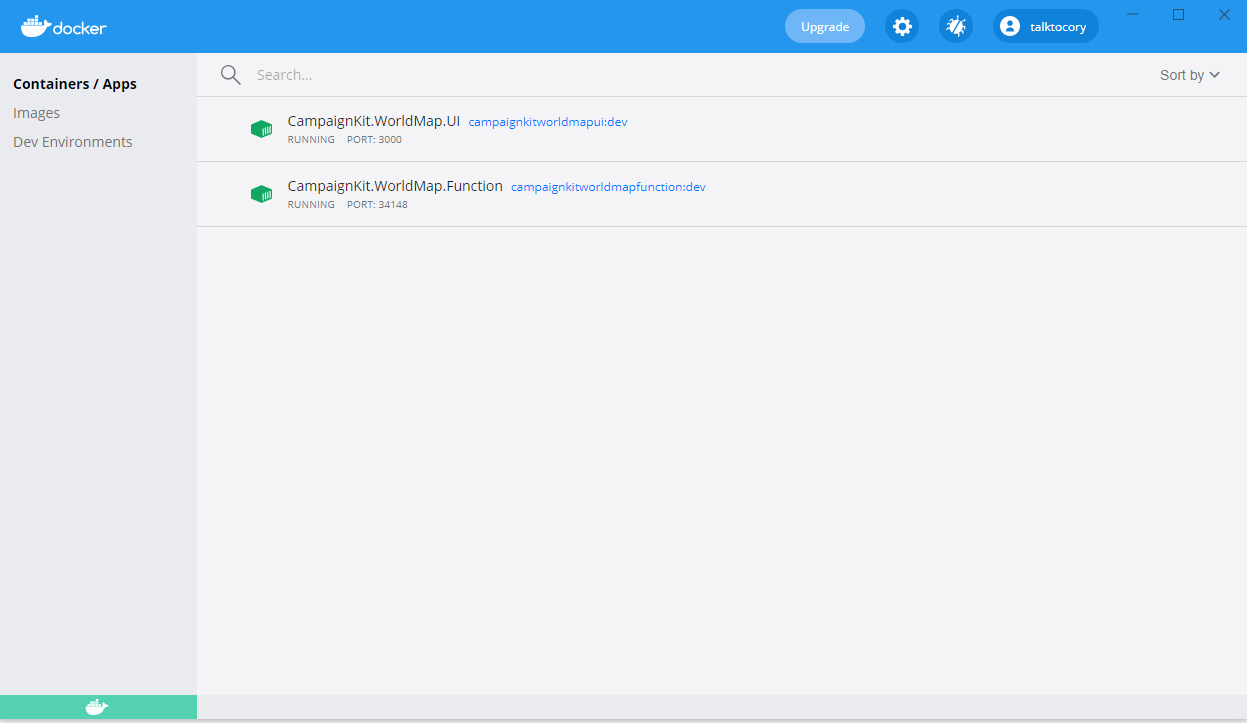
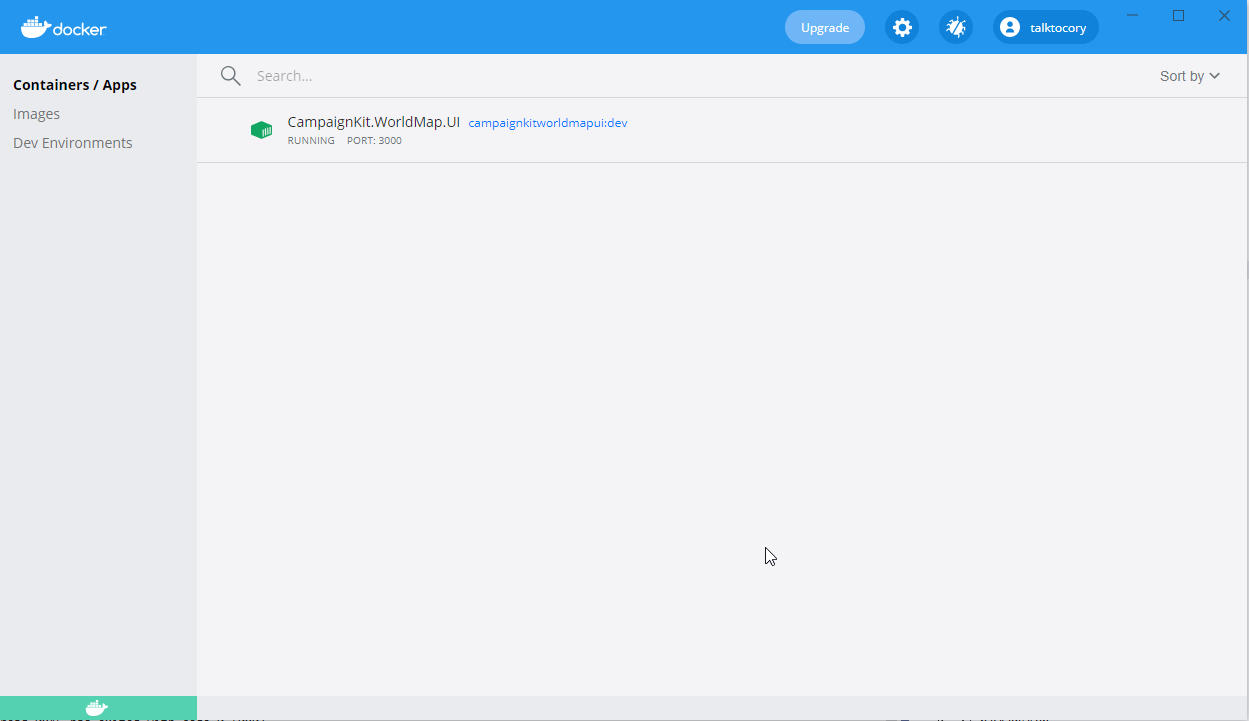
dotnet 5 version of functions deploying successfully to Azure test environment.

diff --git a/src/CampaignKit.WorldMap.Function/CleanupTrigger.cs b/src/CampaignKit.WorldMap.Function/CleanupTrigger.cs
@@ -1,0 +1,91 @@
+// <copyright file="CleanupTrigger.cs" company="Jochen Linnemann - IT-Service">
+// Copyright (c) 2017-2021 Jochen Linnemann, Cory Gill.
+//
+// Licensed under the Apache License, Version 2.0 (the "License");
+// you may not use this file except in compliance with the License.
+// You may obtain a copy of the License at
+//
+//     http://www.apache.org/licenses/LICENSE-2.0
+//
+// Unless required by applicable law or agreed to in writing, software
+// distributed under the License is distributed on an "AS IS" BASIS,
+// WITHOUT WARRANTIES OR CONDITIONS OF ANY KIND, either express or implied.
+// See the License for the specific language governing permissions and
+// limitations under the License.
+// </copyright>
+
+using System;
+
+using CampaignKit.WorldMap.Core.Services;
+
+using Microsoft.Azure.Functions.Worker;
+using Microsoft.Extensions.Configuration;
+using Microsoft.Extensions.Logging;
+
+namespace CampaignKit.WorldMap.Function
+{
+    public class CleanupTrigger
+    {
+        /// The map processing service.
+        /// </summary>
+        private readonly ITableStorageService _tableStorageService;
+
+        /// <summary>
+        /// The application configuration.
+        /// </summary>
+        private readonly IConfiguration _configuration;
+
+        /// <summary>
+        /// Initializes a new instance of the <see cref="CleanupTrigger"/> class.
+        /// </summary>
+        /// <param name="configuration">The configuration.</param>
+        /// <param name="log">The log.</param>
+        /// <param name="tableStorageService">The table storage service.</param>
+        public CleanupTrigger(
+            IConfiguration configuration,
+            ILogger<CleanupTrigger> log,
+            ITableStorageService tableStorageService)
+        {
+            _configuration = configuration;
+            _tableStorageService = tableStorageService;
+        }
+
+        [Function("CleanupTrigger")]
+        public async void Run([TimerTrigger("0 */30 * * * *")] MyInfo myTimer, FunctionContext context)
+        {
+            var logger = context.GetLogger("CampaignKit.WorldMap.Function.CleanupTrigger");
+            logger.LogInformation($"C# Timer trigger function executed at: {DateTime.Now}");
+            try
+            {
+                var result = await _tableStorageService.DeleteProcessedTileRecordsAsync(1, 500);
+                if (result < 0)
+                {
+                    throw new Exception("Failed to delete procesed tiles.");
+                }
+                logger.LogInformation("Successfully delete {0} processed tiles.", result);
+            }
+            catch (Exception e)
+            {
+                logger.LogError("Unable to delete processed tiles: {0}", e.Message);
+            }
+            logger.LogInformation($"C# Timer trigger function executed at: {DateTime.Now}");
+            logger.LogInformation($"Next timer schedule at: {myTimer.ScheduleStatus.Next}");
+        }
+    }
+
+    public class MyInfo
+    {
+        public MyScheduleStatus ScheduleStatus { get; set; }
+
+        public bool IsPastDue { get; set; }
+    }
+
+    public class MyScheduleStatus
+    {
+        public DateTime Last { get; set; }
+
+        public DateTime Next { get; set; }
+
+        public DateTime LastUpdated { get; set; }
+    }
+}

diff --git a/src/CampaignKit.WorldMap.Function/ProcessMapTrigger.cs b/src/CampaignKit.WorldMap.Function/ProcessMapTrigger.cs
@@ -57,7 +57,7 @@ namespace CampaignKit.WorldMap.Function
         [Function("ProcessMapTrigger")]
         public async void Run([QueueTrigger("worldmapqueue", Connection = "ConnectionStrings:AzureQueueStorage")] string myQueueItem, FunctionContext context)
         {
-            var logger = context.GetLogger("CampaignKit.WorldMap.ProcessMapTrigger");
+            var logger = context.GetLogger("CampaignKit.WorldMap.Function.ProcessMapTrigger");
             try
             {
                 var result = await _mapProcessingService.ProcessMap(myQueueItem);

diff --git a/README.md b/README.md
@@ -6,10 +6,7 @@ Service for managing world maps and associate them with Campaign Logger log entr
 
 ## SDKs
 
-- CampaignKit.WorldMap.UI
-  - [.Net 5.0 SDK](https://dotnet.microsoft.com/download/visual-studio-sdks?utm_source=getdotnetsdk&utm_medium=referral)
-- CampaignKit.WorldMap.Core and CampaignKit.WorldMap.Functions
-  - [.Net 3.1 SDK](https://dotnet.microsoft.com/download/visual-studio-sdks?utm_source=getdotnetsdk&utm_medium=referral)
+- [.Net 5.0 SDK](https://dotnet.microsoft.com/download/visual-studio-sdks?utm_source=getdotnetsdk&utm_medium=referral)
 
 ## Azure Tools
 - [Microsoft Azure Storage Explorer](https://azure.microsoft.com/en-us/features/storage-explorer/)
@@ -52,9 +49,8 @@ Enabling public access to blobs.
 
 ## Docker Desktop
 1. Start Docker Desktop
-2. Click "Start" to begin debugging.  This will build and run two Docker images:
-  - CampaignKit.WorldMap.UI and
-  - CampaignKit.WorldMap.Function
+2. Click "Start" to begin debugging.  This will build and run the following Docker image:
+  - CampaignKit.WorldMap.UI
 
 ![Docker Running World-Map Projects](./DockerRunningWorldMapProjects.png)
 
